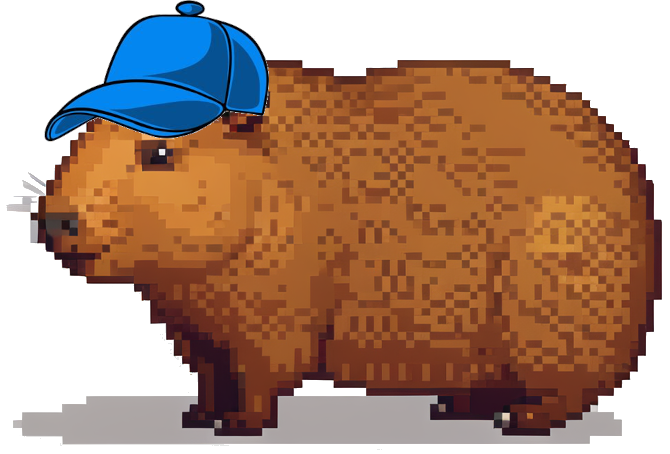
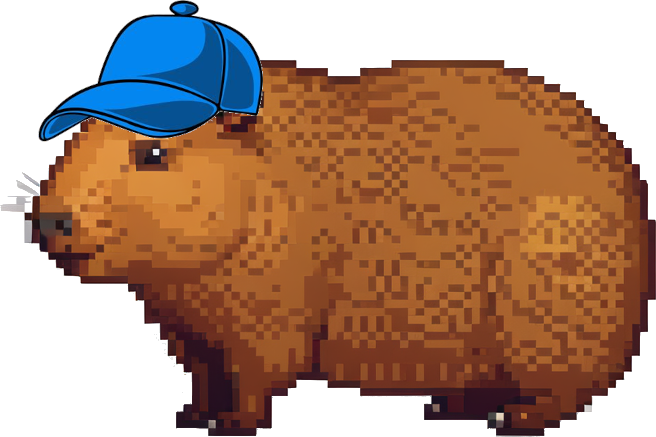
images

diff --git a/styles.css b/styles.css
@@ -40,6 +40,7 @@
     margin-top: 14vh;
     transition: transform 0.1s ease-in-out;
     user-select: none;
+    z-index: 10;
 }
 
 #capybara.shrink {
@@ -244,4 +245,52 @@
 #shop-item-purple img {
     margin: 12px;
     margin-right: 0;
+}
+
+#sun {
+    width: 830px;
+    position: absolute;
+    left: 500px;
+    top: 120px;
+    z-index: 9;
+    opacity: 0.7;
+    animation: spin 20s linear infinite;
+}
+
+@keyframes spin {
+    0% {
+        transform: rotate(0deg) scale(1);
+    }
+
+    12.5% {
+        transform: rotate(45deg) scale(0.8);
+    }
+
+    25% {
+        transform: rotate(90deg) scale(1);
+    }
+
+    37.5% {
+        transform: rotate(135deg) scale(0.8);
+    }
+
+    50% {
+        transform: rotate(180deg) scale(1);
+    }
+
+    62.5% {
+        transform: rotate(225deg) scale(0.8);
+    }
+
+    75% {
+        transform: rotate(270deg) scale(1);
+    }
+
+    87.5% {
+        transform: rotate(315deg) scale(0.8);
+    }
+
+    100% {
+        transform: rotate(360deg) scale(1);
+    }
 }

diff --git a/index.html b/index.html
@@ -78,6 +78,8 @@
         </div>
     </div>
 
+    <img src="images/sun.png" id="sun">
+
     <script src="app.js"></script>
 </body>
 
